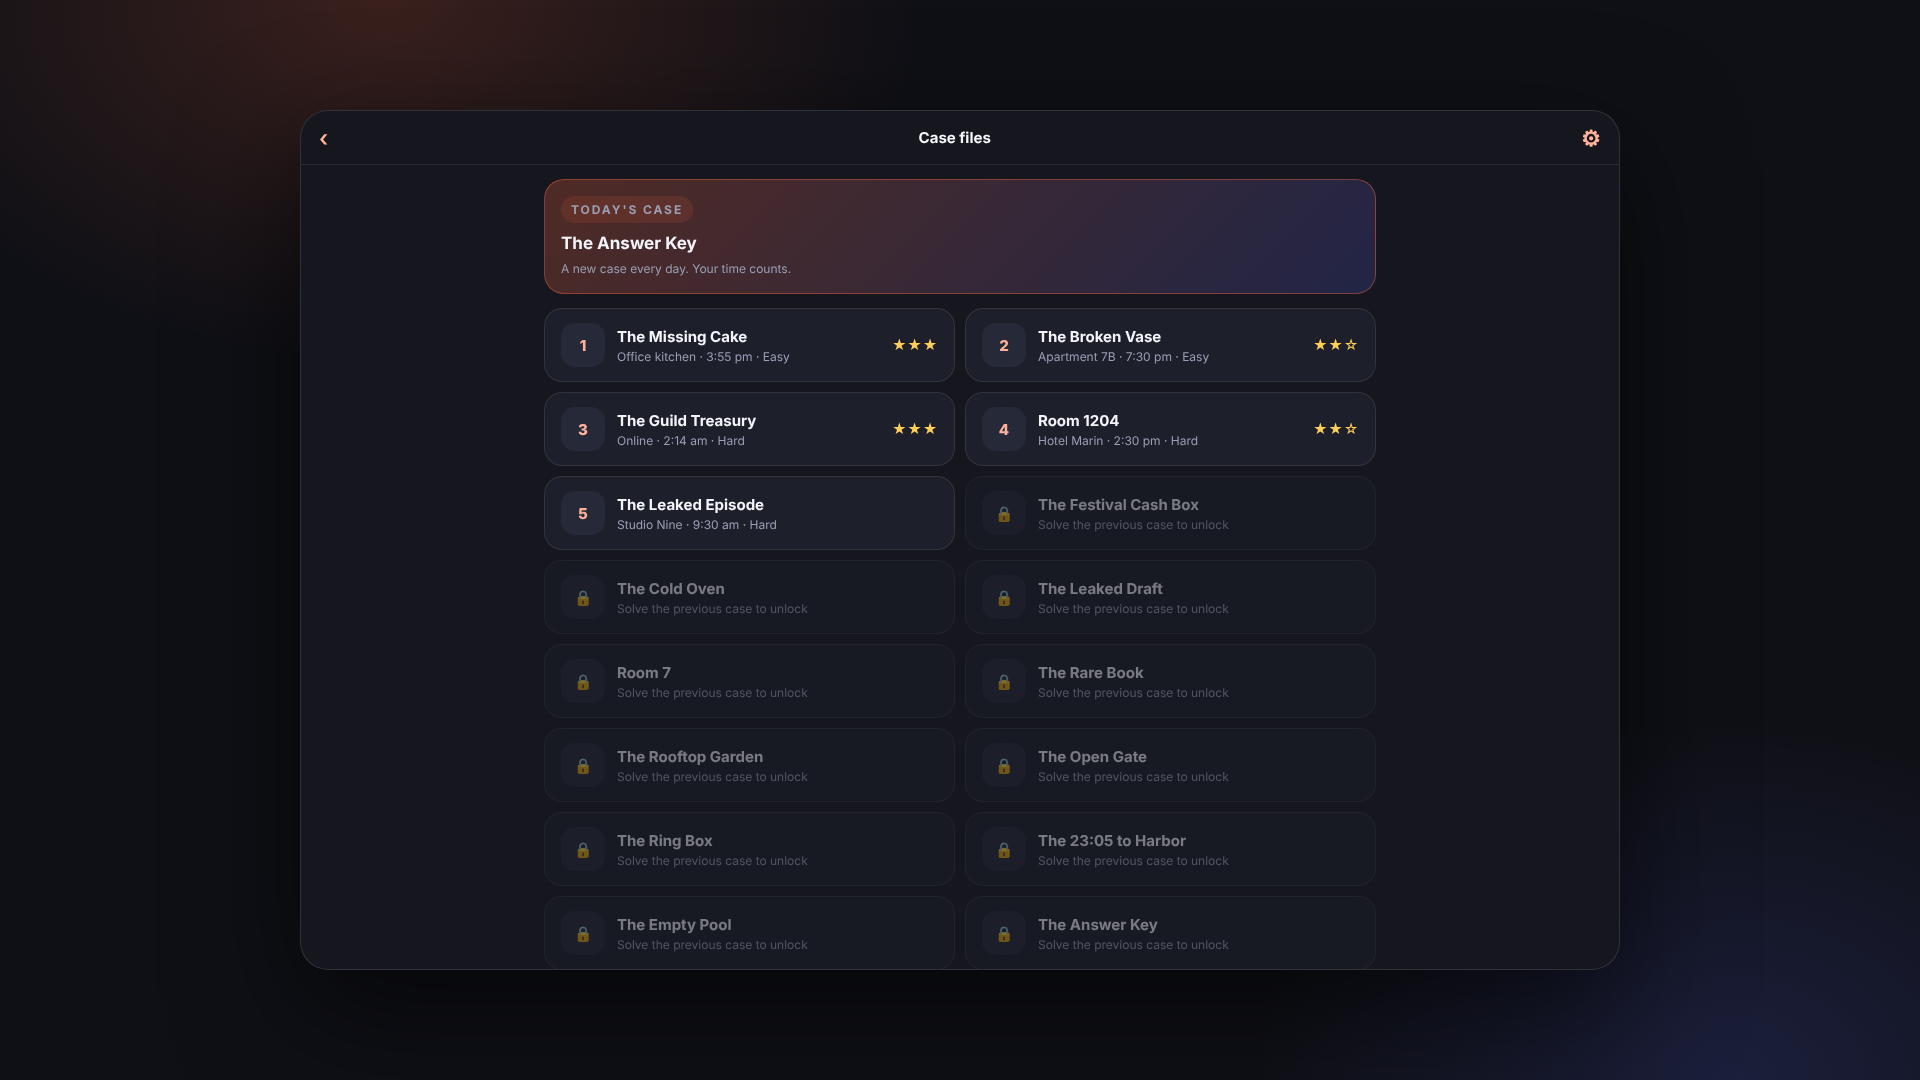
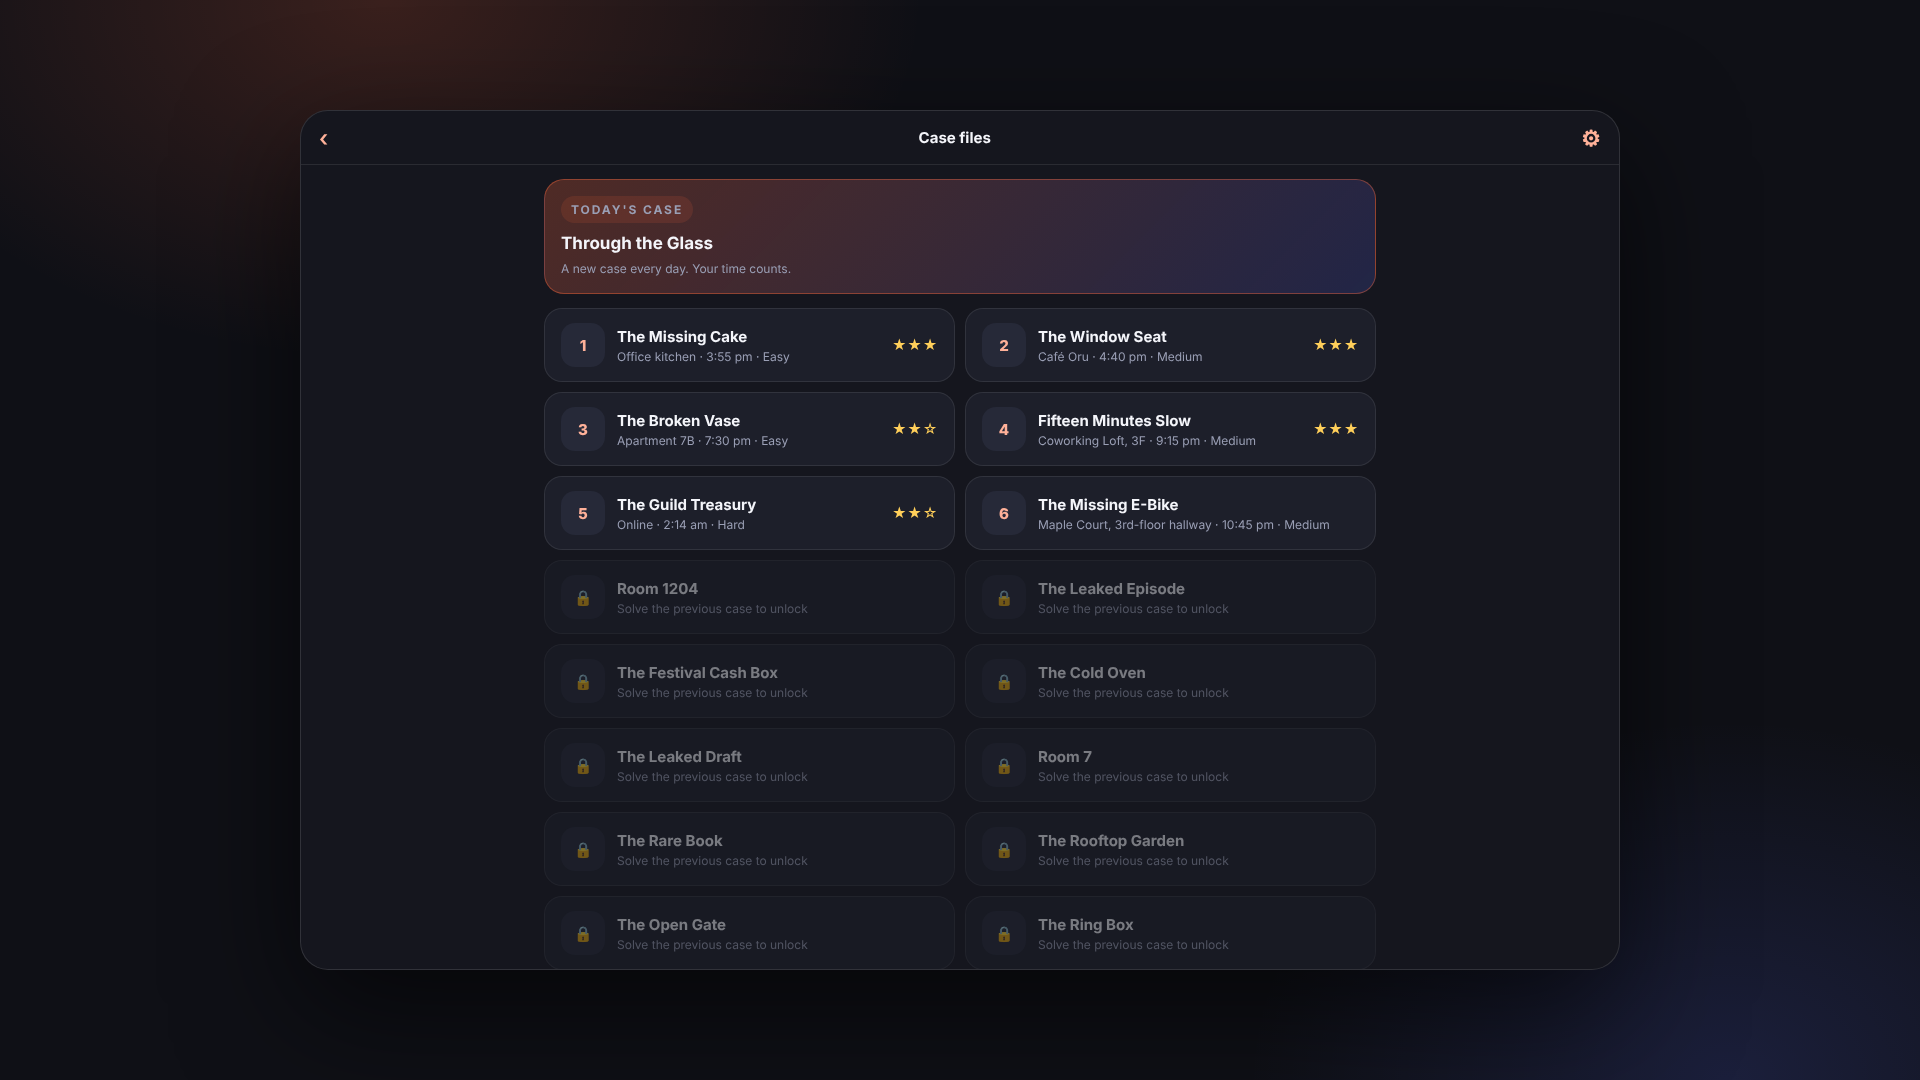
알리바이: 변주 사건 3종 완성(사진 단서·엇갈리는 증거·결백의 거짓말), 23사건, 문서·등록 문구 갱신, 테스트용 빠른 자백 스위치
Claude-Session: https://claude.ai/code/session_01GtvmLdhHeiEetnrQffLSpt

diff --git a/games/alibi/js/cases-i.js b/games/alibi/js/cases-i.js
@@ -1,0 +1,73 @@
+'use strict';
+/* ALIBI — case pack I: the conflicting-evidence case.
+   Two facts disagree (camera still vs badge log); a third (the IT note) says which to trust. */
+CASES.en.push({
+  id: 'clock', title: 'Fifteen Minutes Slow', place: 'Coworking Loft, 3F · 9:15 pm', difficulty: 2,
+  intro: 'A laptop vanished from the quiet room between 20:50 and 21:10. The camera says one thing, the badge log says another. Only one of them is right.',
+  suspects: [['ira', 'Ira', 'Member'], ['ben', 'Ben', 'Night receptionist'], ['suki', 'Suki', 'Cleaner']],
+  facts: [
+    ['📷', 'Lobby camera still, timestamp 20:48: Ira walking out the front door.'],
+    ['🪪', 'Badge log: Ira out 21:03 · Suki in 21:25. Desk console: Ben signed in a courier at 20:56 and logged a call at 21:00.'],
+    ['🛠', 'IT note taped to the recorder: "Camera clock has run 15 minutes slow since Monday\'s power cut. Both cameras. Not fixed yet."'],
+    ['🚪', 'Quiet-room door sensor: opened 20:55 and 21:01. No badge needed from inside.'],
+    ['🧹', 'Cleaning roster: Suki, quiet room 21:30–21:45.'],
+    ['📷', 'Back-door camera still (same recorder), timestamp 20:35–20:38: Ben outside the back door with a coffee.']
+  ],
+  chat: [
+    { s: 'ben', t: '21:15', m: 'The laptop in the quiet room is gone. Owner says it was there at 8:50. Who was still on the floor?' },
+    { s: 'ira', t: '21:17', m: 'Not me. I was out of the building by ten to nine, check the lobby camera.', ev: 1, lie: 'The badge log has Ira leaving at 21:03. The camera\'s 20:48 is the same moment: the recorder runs 15 minutes slow.' },
+    { s: 'suki', t: '21:18', m: 'I only get to the quiet room at half nine. Already empty, so I called it in.' },
+    { s: 'ben', t: '21:19', m: 'I never left the desk all night. Nobody walked past me with a laptop.', ev: 5, lie: 'The back-door still shows Ben outside with a coffee at 20:35 on the slow clock, which is 20:50 real time.' },
+    { s: 'ira', t: '21:21', m: 'Then it went out the back. Cleaners use that door.' },
+    { s: 'suki', t: '21:22', m: 'I came in through the front at 9:25 and badged. Look it up.' },
+    { s: 'ben', t: '21:24', m: 'Badge log has you out at 21:03, Ira. Camera says 20:48. One of those is wrong.' },
+    { s: 'ira', t: '21:25', m: 'Cameras don\'t lie.' },
+    { s: 'suki', t: '21:26', m: 'IT taped a note on the recorder on Monday. Read it.' }
+  ],
+  culprit: 'ira',
+  solve: 'The recorder runs 15 minutes slow, so the 20:48 still of Ira leaving is really 21:03, exactly what the badge log says, two minutes after the quiet-room door opened at 21:01. Ben did slip out for a coffee (20:35 on the slow clock is 20:50) but was back at the desk signing in a courier at 20:56, and Suki arrived at 21:25, after the laptop was gone.'
+});
+CASES.ko.push({
+  id: 'clock', title: '15분 느린 시계', place: '코워킹 로프트 3층 · 오후 9:15', difficulty: 2,
+  intro: '20:50에서 21:10 사이에 집중실의 노트북이 사라졌다. 카메라는 이렇게 말하고, 출입 기록은 저렇게 말한다. 둘 중 하나만 맞다.',
+  suspects: [['ira', '이라', '회원'], ['ben', '벤', '야간 안내 데스크'], ['suki', '수키', '청소']],
+  facts: [
+    ['📷', '로비 카메라 정지 화면, 표시 시각 20:48: 이라가 정문으로 나가는 모습.'],
+    ['🪪', '출입 기록: 이라 퇴장 21:03 · 수키 입장 21:25. 데스크 콘솔: 벤이 20:56 택배 기사 등록, 21:00 전화 응대 기록.'],
+    ['🛠', '녹화기에 붙은 IT 메모: "월요일 정전 이후 카메라 시계가 15분 느림. 두 대 모두. 아직 수리 전."'],
+    ['🚪', '집중실 문 센서: 20:55, 21:01 열림. 안에서는 카드 없이 열림.'],
+    ['🧹', '청소 일정: 수키, 집중실 21:30–21:45.'],
+    ['📷', '후문 카메라 정지 화면(같은 녹화기), 표시 시각 20:35–20:38: 벤이 커피를 들고 후문 밖에 서 있음.']
+  ],
+  chat: [
+    { s: 'ben', t: '21:15', m: '집중실 노트북이 없어졌어요. 주인은 8시 50분까지 있었대요. 그 뒤에 층에 남아 있던 분?' },
+    { s: 'ira', t: '21:17', m: '저 아니에요. 9시 10분 전에 건물 나갔어요. 로비 카메라 보세요.', ev: 1, lie: '출입 기록에 이라의 퇴장은 21:03이다. 카메라의 20:48은 같은 순간이다. 녹화기가 15분 느리다.' },
+    { s: 'suki', t: '21:18', m: '저는 9시 반에야 집중실에 가요. 이미 비어 있어서 바로 신고했어요.' },
+    { s: 'ben', t: '21:19', m: '저는 밤새 데스크를 떠난 적이 없어요. 노트북 들고 지나간 사람도 없었고요.', ev: 5, lie: '후문 화면에 벤이 커피를 들고 밖에 있는 모습이 느린 시계로 20:35, 실제로는 20:50에 찍혀 있다.' },
+    { s: 'ira', t: '21:21', m: '그럼 뒷문으로 나간 거네요. 청소하시는 분들이 그 문 쓰잖아요.' },
+    { s: 'suki', t: '21:22', m: '저는 9시 25분에 정문으로 들어와서 카드 찍었어요. 확인해 보세요.' },
+    { s: 'ben', t: '21:24', m: '이라 씨, 출입 기록은 21:03 퇴장이에요. 카메라는 20:48이고요. 둘 중 하나는 틀렸어요.' },
+    { s: 'ira', t: '21:25', m: '카메라는 거짓말 안 해요.' },
+    { s: 'suki', t: '21:26', m: '월요일에 IT가 녹화기에 메모 붙여 놨어요. 읽어 보세요.' }
+  ],
+  culprit: 'ira',
+  solve: '녹화기가 15분 느리다. 이라가 나가는 20:48 화면은 실제로 21:03이고, 출입 기록과 정확히 일치한다. 집중실 문이 21:01에 열린 2분 뒤다. 벤은 커피를 사러 잠깐 나갔지만(느린 시계의 20:35는 실제 20:50) 20:56에는 데스크에서 택배 기사를 등록하고 있었고, 수키는 노트북이 사라진 뒤인 21:25에 도착했다.'
+});
+Object.assign(OUTRO.en, {
+  clock: [
+    { s: 'ira', m: 'Based on a badge log? Those things double-scan all the time. The camera has me leaving at 8:48.' },
+    { s: 'suki', m: 'That camera has been fifteen minutes slow since Monday. IT taped a note on it. 8:48 on that screen is 9:03.' },
+    { s: 'ira', m: 'Fine. Three months behind on this desk and my client bailed. The laptop was going on a resale site tonight. I\'d have been gone by morning.' },
+    { s: 'ben', m: 'For the record, I did step out. Three minutes for a coffee at ten to nine. I didn\'t want it on my review.' },
+    { s: 'suki', m: 'It\'s in your bag, Ira. Put it on the desk and Ben calls the owner, not the police. Your call.' }
+  ]
+});
+Object.assign(OUTRO.ko, {
+  clock: [
+    { s: 'ira', m: '출입 기록 하나로요? 그거 이중 인식 맨날 나요. 카메라엔 제가 8시 48분에 나가는 게 찍혀 있어요.' },
+    { s: 'suki', m: '그 카메라 월요일부터 15분 느려요. IT가 메모까지 붙여 놨어요. 그 화면의 8시 48분이 9시 3분이에요.' },
+    { s: 'ira', m: '알았어요. 자리 월세 석 달 밀렸는데 클라이언트가 날랐어요. 노트북은 오늘 밤 중고 사이트에 올릴 생각이었어요. 아침이면 떠났을 거고요.' },
+    { s: 'ben', m: '참고로 저 잠깐 나갔다 온 건 맞아요. 8시 50분에 커피 사러 3분. 평가에 남을까 봐 말 안 했어요.' },
+    { s: 'suki', m: '가방 안에 있죠, 이라 씨. 데스크에 올려놓으면 벤이 경찰 말고 주인한테 전화할 거예요. 선택하세요.' }
+  ]
+});

diff --git a/games/alibi/js/ui.js b/games/alibi/js/ui.js
@@ -240,9 +240,9 @@ function playOutro(id, stars) {
     if (i >= lines.length) { setTimeout(() => showSolved(stars), 900); return; }
     const l = lines[i++], last = i === lines.length, confess = l.s === c.culprit && i >= lines.length - 1;
     const ty = add(l.s, '…', 'typing');
-    setTimeout(() => { ty.remove(); add(l.s, l.m, l.s === c.culprit ? (confess ? 'confess' : 'accused') : ''); A.msg ? A.msg() : A.click(); if (last) A.win(); step(); }, 500 + Math.min(1500, l.m.length * 22));
+    setTimeout(() => { ty.remove(); add(l.s, l.m, l.s === c.culprit ? (confess ? 'confess' : 'accused') : ''); A.msg ? A.msg() : A.click(); if (last) A.win(); step(); }, window.__al && window.__al.fast ? 20 : 500 + Math.min(1500, l.m.length * 22));
   };
-  setTimeout(step, 600);
+  setTimeout(step, window.__al && window.__al.fast ? 20 : 600);
 }
 
 /* ---- results ---- */
@@ -322,4 +322,4 @@ PORTAL.ready.then(() => {
   A.setMuted(!S.settings.sound); if (screen === 'title') boot(); PORTAL.loaded();
 });
 renderTitle();
-window.__al = { get S() { return S; }, get R() { return R; }, beginCase, renderList };
+window.__al = { fast: false, get S() { return S; }, get R() { return R; }, beginCase, renderList };

diff --git a/games/alibi/index.html b/games/alibi/index.html
@@ -4,7 +4,7 @@
 <meta charset="utf-8">
 <meta name="viewport" content="width=device-width,initial-scale=1,maximum-scale=1,user-scalable=no,viewport-fit=cover">
 <title>ALIBI</title>
-<meta name="description" content="Deduction game: read a group chat, compare it with the evidence, catch the lies and accuse the culprit. 20 cases plus a daily case, 3–5 minutes each.">
+<meta name="description" content="Deduction game: read a group chat, compare it with the evidence, catch the lies and accuse the culprit. 23 cases plus a daily case, 3–5 minutes each.">
 <link rel="preconnect" href="https://fonts.googleapis.com">
 <link rel="preconnect" href="https://fonts.gstatic.com" crossorigin>
 <link rel="stylesheet" href="https://fonts.googleapis.com/css2?family=Inter:wght@400;500;600;700;800&display=swap">

diff --git a/games/alibi/store/listing.md b/games/alibi/store/listing.md
@@ -5,8 +5,8 @@
 - 한국어: **알리바이 ALIBI — 거짓말을 잡아라**
 
 ## 짧은 설명
-- EN: Read the group chat, check it against the evidence, mark the lies and accuse the culprit. Twenty cases, five minutes each, plus a daily case.
-- KO: 단체 채팅을 읽고 증거와 대조해 거짓말을 표시하고 범인을 지목하세요. 사건 20개, 하나에 5분. 오늘의 사건도.
+- EN: Read the group chat, check it against the evidence, mark the lies and accuse the culprit. 23 cases, five minutes each, plus a daily case.
+- KO: 단체 채팅을 읽고 증거와 대조해 거짓말을 표시하고 범인을 지목하세요. 사건 23개, 하나에 5분. 오늘의 사건도.
 
 ## 긴 설명 — English
 Everyone in the chat has a story. The evidence only agrees with some of them.
@@ -14,7 +14,8 @@ Everyone in the chat has a story. The evidence only agrees with some of them.
 ALIBI is a deduction game played on a detective's phone. Each case gives you a group chat, a handful of facts (badge logs, receipts, CCTV, weather) and a few suspects. Tap a message that doesn't match the evidence, then pick the fact it contradicts. Find every lie, then accuse. Three mistakes and the case starts over.
 
 **Features**
-- 20 cases with rising difficulty: an office kitchen, an apartment, a startup leak, a school festival, a hotel, a game guild, a library, a wedding, a rooftop garden, a podcast studio, a bakery, a late train, a drained pool, a leaked answer key, an open gate, a gallery blackout, a gym locker, a crashed drone, a karaoke room, a dropped database
+- 23 cases with rising difficulty: an office kitchen, an apartment, a startup leak, a school festival, a hotel, a game guild, a library, a wedding, a rooftop garden, a podcast studio, a bakery, a late train, a drained pool, a leaked answer key, an open gate, a gallery blackout, a gym locker, a crashed drone, a karaoke room, a dropped database, a café photo, a slow camera clock, a stolen e-bike
+- Not every case is the same puzzle: read details inside a photo, decide which of two conflicting records to trust, and spot the lie that actually clears someone
 - Every suspect has a face; name the culprit and watch the chat turn: pushback, the decisive fact, a confession
 - Ambient music and a hands-on guide for your first case
 - A daily case with a timer and a streak
@@ -35,7 +36,8 @@ ALIBI is a deduction game played on a detective's phone. Each case gives you a g
 알리바이는 탐정의 휴대폰에서 하는 추리 게임입니다. 사건마다 단체 채팅, 몇 가지 사실(출입 기록, 영수증, CCTV, 날씨), 용의자 몇 명이 주어져요. 증거와 어긋나는 말을 누르고, 어느 증거와 어긋나는지 고르세요. 거짓말을 다 찾으면 범인을 지목합니다. 실수 세 번이면 처음부터.
 
 **특징**
-- 점점 어려워지는 사건 20개: 사무실, 아파트, 스타트업, 학교 축제, 호텔, 게임 길드, 도서관, 결혼식, 옥상 텃밭, 팟캐스트, 빵집, 막차, 수영장, 정답지, 대문, 갤러리, 헬스장 사물함, 드론 추락, 노래방, 데이터베이스 삭제
+- 점점 어려워지는 사건 23개: 사무실, 아파트, 스타트업, 학교 축제, 호텔, 게임 길드, 도서관, 결혼식, 옥상 텃밭, 팟캐스트, 빵집, 막차, 수영장, 정답지, 대문, 갤러리, 헬스장 사물함, 드론 추락, 노래방, 데이터베이스 삭제, 카페 사진, 느린 카메라 시계, 전기자전거
+- 매번 같은 풀이가 아닙니다: 사진 속 세부를 읽고, 엇갈리는 두 기록 중 믿을 쪽을 고르고, 사람을 결백하게 만드는 거짓말을 알아보세요
 - 용의자마다 얼굴이 있고, 범인을 지목하면 채팅이 뒤집힙니다: 반박, 결정적 증거, 자백
 - 배경 음악과 첫 사건 단계별 안내
 - 타이머와 연속 기록이 있는 오늘의 사건

diff --git a/games/alibi/HANDOFF.md b/games/alibi/HANDOFF.md
@@ -12,14 +12,14 @@
 - 등록 문구와 이미지: `games/alibi/store/`
 
 ## 끝난 일
-- 사건 20개(난이도 3단계). 거짓말 표시는 **어긋나는 증거까지 골라야** 인정(찍기 방지). 실수 3회·범인 지목·별 점수·힌트
+- 사건 23개(난이도 3단계). 변주 사건 3종(사진 단서, 엇갈리는 증거, 거짓말이 결백의 증거)을 플레이 순서 2·4·6번에 배치. 거짓말 표시는 **어긋나는 증거까지 골라야** 인정(찍기 방지). 실수 3회·범인 지목·별 점수·힌트
 - 용의자 벡터 얼굴, 범인 지목 뒤 자백 연출(사건마다 4~6줄, 두 언어), 반전 큰 사건을 앞에 두는 순서
 - 처음 접속하면 클릭 없이 1번 사건, 다시 오면 사건 목록. PC 가로 화면은 채팅·증거 나란히 배치. 일러스트 썸네일
 - 오늘의 사건(연속 일수), 타이머와 최고 기록, 용의자별 주장 보기, 기록 복사
 - 첫 사건 단계별 안내, 배경 음악(합성), 거짓말 발견·별 연출
 - 사건 검증 도구 `tools/lint-cases.mjs`
 - 한국어·영어, CrazyGames·Poki 광고(힌트 보상형, 사건 사이 판 사이 광고), CrazyGames 계정 저장
-- PC(가로)·모바일에서 20개 사건 전부 자동 플레이, 실패 경로, 힌트, 오답 지목 테스트 통과, 오류 없음
+- PC(가로)·모바일에서 23개 사건 전부 자동 플레이, 실패 경로, 힌트, 오답 지목 테스트 통과, 오류 없음
 - 포털별 zip(폰트 포함 시 약 360KB; 폰트 다운로드가 막힌 환경에서는 약 50KB로 나오며 구글 폰트 링크를 대신 씀), 커버 6종, 스크린샷 5장
 
 **확인 못 한 것**: 진짜 CrazyGames SDK(이 환경에서 접속 불가), 사람이 직접 한 플레이.
@@ -29,7 +29,7 @@
 **두 번째 리뷰에서 남은 지적(이 컨셉으로는 못 고치는 것)**: 글을 읽어야 하는 게임이라 10대 중심 포털에서 이탈이 크고 광고 자리가 적어 수익성이 낮음. 앞쪽 쉬운 사건의 거짓말이 증거와 1:1로 바로 맞닿아 추리보다 대조에 가까움(사진 단서, 엇갈리는 증거 같은 변주는 뒤쪽 사건에만 있음).
 
 ## 다음 단계
-1. 사용자님이 직접 사건을 플레이 (20개, 약 90분). 억지스러운 거짓말, 증거만으로 범인이 안 좁혀지는 사건이 있으면 알려 주세요.
+1. 사용자님이 직접 사건을 플레이 (23개, 약 100분). 억지스러운 거짓말, 증거만으로 범인이 안 좁혀지는 사건이 있으면 알려 주세요.
 2. `node games/alibi/build.mjs crazygames` → `games/alibi/dist/alibi-crazygames.zip`
 3. CrazyGames 포털 Submit a game. 값은 아래 표
 
@@ -50,7 +50,7 @@
 | Screenshots | `store/screens/1-chat.png` ~ `4-cases.png` |
 
 ## 개선 후보
-- 사건 추가 (사건당 텍스트 약 60줄, 두 언어). 포털에서 가장 효과 큰 업데이트. `cases-h.js`부터
+- 사건 추가 (사건당 텍스트 약 60줄, 두 언어). 포털에서 가장 효과 큰 업데이트. `cases-k.js`부터
 - 오늘의 사건에 전 세계 공통 순위표 (서버 필요)
 - 사건 묶음(시즌)별 잠금 해제
 

diff --git a/games/alibi/README.md b/games/alibi/README.md
@@ -22,7 +22,7 @@
 3. 거짓말을 모두 찾으면 **범인 지목**이 열립니다. 틀린 사람을 지목해도 실수 1회.
 4. 별 점수: 실수와 힌트가 없으면 ★3, 실수·힌트 각 1회 이하면 ★2, 그 외 ★1.
 
-## 사건 20개
+## 사건 23개
 | # | 사건 | 난이도 | 거짓말 | 반전 |
 | --- | --- | --- | --- | --- |
 | 1 | 사라진 케이크 | 쉬움 | 2 | 튜토리얼 |
@@ -45,8 +45,13 @@
 | 18 | 유리를 뚫고 | 보통 | 3 | 등록 소유자는 빌려준 사람 |
 | 19 | 7번 방 | 쉬움 | 2 | 휴대폰 위치와 교통카드 |
 | 20 | DROP DATABASE | 어려움 | 3 | 공용 계정 비밀번호를 받은 사람 |
+| 21 | 창가 자리 | 보통 | 3 | **사진 단서**: 사진 속 세부 항목 셋이 거짓말을 가른다 (플레이 순서 2번) |
+| 22 | 15분 느린 시계 | 보통 | 2 | **엇갈리는 증거**: 카메라와 출입 기록이 다르고, IT 메모가 어느 쪽을 믿을지 정한다 (순서 4번) |
+| 23 | 사라진 전기자전거 | 보통 | 2 | **거짓말이 결백의 증거**: 가장 크게 거짓말한 사람이 그 거짓말 때문에 범인에서 빠진다 (순서 6번) |
 
-사건 1~6은 `js/cases.js`, 7~8은 `js/cases-a.js`, 9~10은 `js/cases-b.js`, 11~12는 `js/cases-c.js`, 13~14는 `js/cases-d.js`, 15~16은 `js/cases-e.js`, 17~18은 `js/cases-f.js`, 19~20은 `js/cases-g.js`에 있습니다.
+사건 1~6은 `js/cases.js`, 7~8은 `js/cases-a.js`, 9~10은 `js/cases-b.js`, 11~12는 `js/cases-c.js`, 13~14는 `js/cases-d.js`, 15~16은 `js/cases-e.js`, 17~18은 `js/cases-f.js`, 19~20은 `js/cases-g.js`, 21~23은 `js/cases-h/i/j.js`(자백 대사 포함)에 있습니다.
+
+**사진 증거**: `facts` 항목에 세 번째 원소로 세부 항목 배열을 넣으면 사진 카드와 돋보기 칩으로 보여 줍니다. 예: `['📷', '손님 사진, 16:20', ['벽시계 4:20', '노아는 머신 앞', ...]]`
 `node games/alibi/tools/lint-cases.mjs`로 모든 사건의 구조와 공정성 규칙(거짓말 2개 이상, 범인도 거짓말, 두 언어 구조 일치 등)을 검사합니다.
 
 ## 광고 (포털 빌드에서만)
@@ -72,7 +77,7 @@ node games/alibi/build.mjs crazygames # 하나만
 ## 코드 구조
 | 파일 | 내용 |
 | --- | --- |
-| `js/cases.js`, `cases-a` ~ `cases-g.js` | 사건 20개 (한국어·영어) |
+| `js/cases.js`, `cases-a` ~ `cases-j.js` | 사건 23개 (한국어·영어) |
 | `js/outro-1.js`, `outro-2.js` | 지목 뒤 자백 대사 (사건 id별) |
 | `tools/lint-cases.mjs` | 사건 구조·공정성 검사 |
 | `js/i18n.js` | 언어, 인터페이스 문구 |
